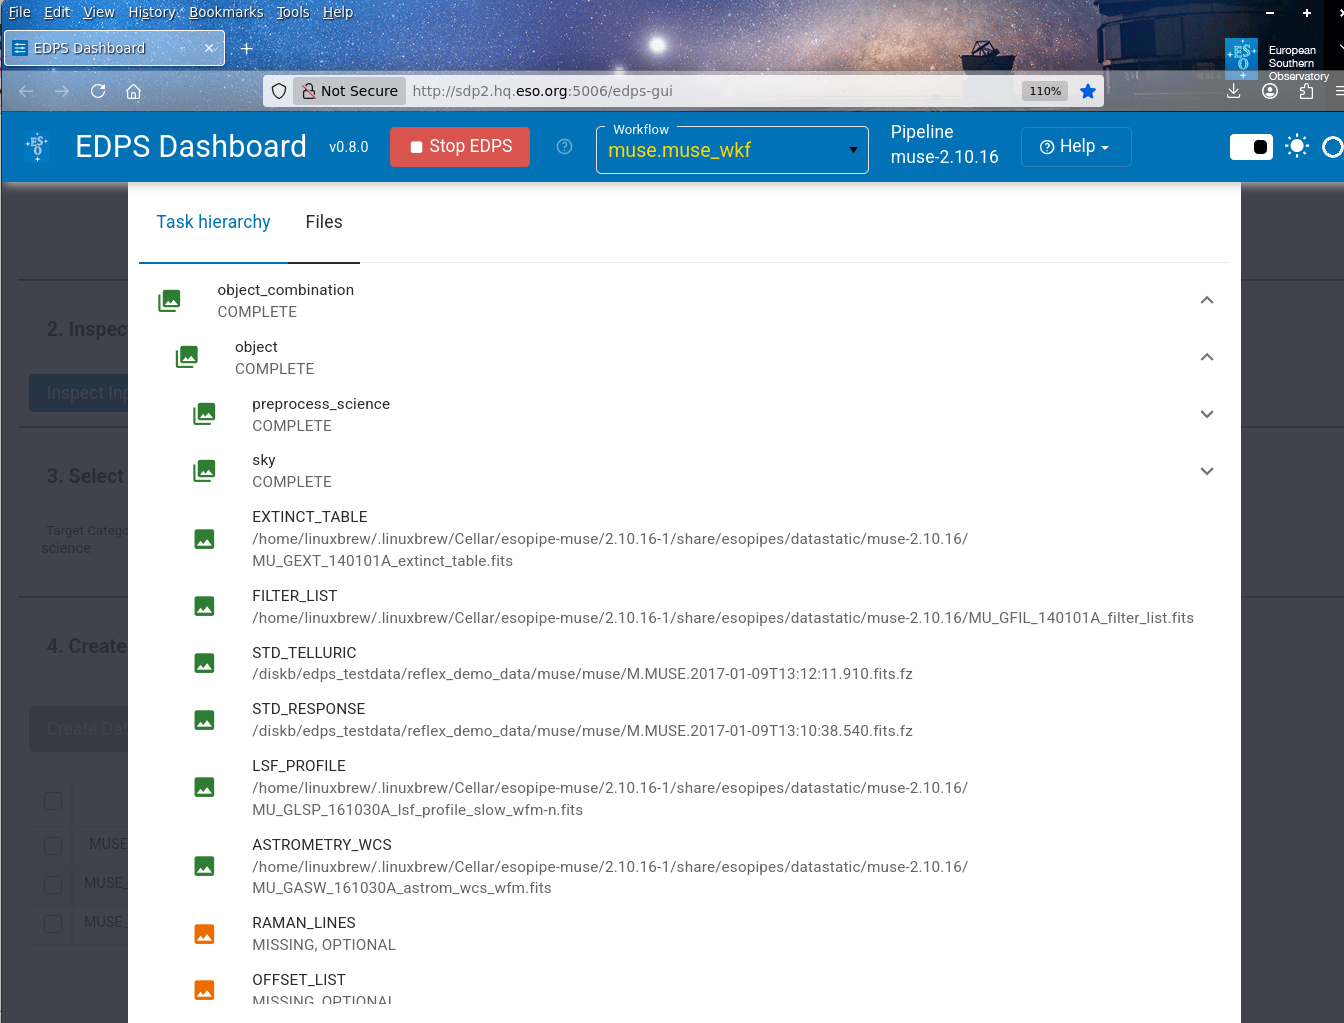
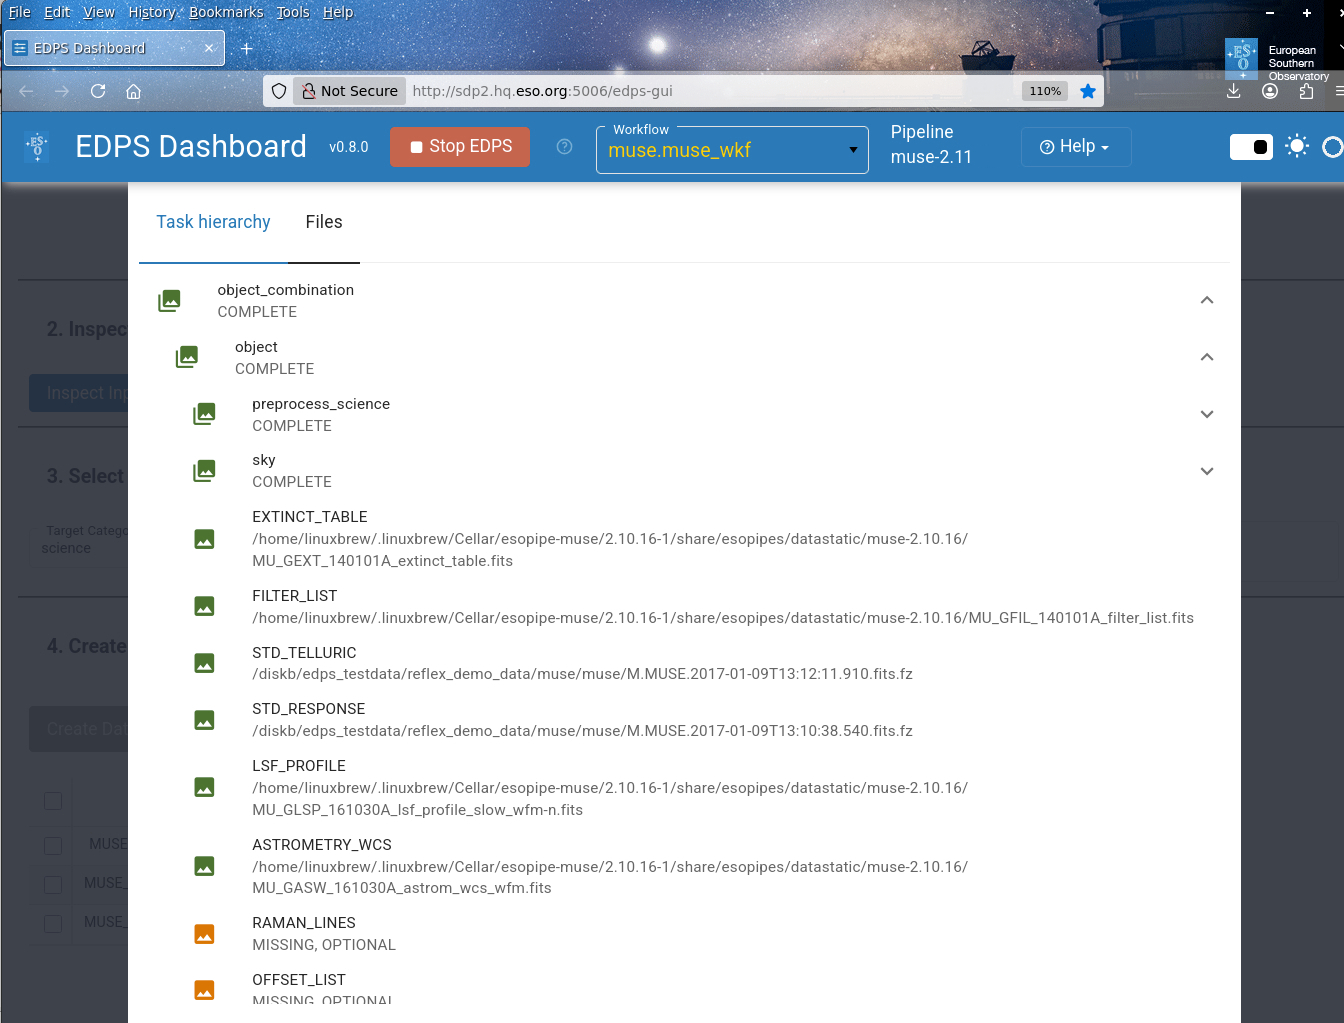
Start putting muse in line with 2.11 version

diff --git a/source/muse/task_list.md b/source/muse/task_list.md
@@ -5,33 +5,35 @@ by a workflow parameter). Other tasks are not used for scientific reduction (the
 for instrument monitoring and they can be executed only by specifying them as target. Note that, when a task is specified as target, all the 
 tasks that generate the calibrations needed for it are automatically executed.
 
-| TASK                            | 	RECIPE            | Used in  <br/>  science reduction | 	Notes                                                             |            
-|---------------------------------|---------------------|-------------------------------------|--------------------------------------------------------------------|
-| alignment	                      | muse_exp_align	  | yes	                                | Aligns a set of exposures for combination.                         |
-| alignment_sky	                  | muse_exp_align	  | no	                                 | Aligns a set of sky exposures for combination.                     |
-| astrometry	                     | muse_astrometry	  | no	                                 | Computes astrometry.                                               |
-| autocalibration_from_object_sky | none		          | no	                                 | Selects sky expousres for additional slice-to-slice flat fielding. |
-| bias	                           | muse_bias	          | yes	                                | Computes the masterbias.                                           |
-| dark			                         | muse_dark	     |optional| 	 Computes the master dark.                                        |
-| geometry		                      | muse_geometry    |optional| 	Generates geometry calibrations.			                               |
-| lamp_flat		                     | muse_flat	     |yes     | 	Computes master flat field.				                                   |
-| line_spread_function_arc        | muse_lsf	     |yes     | 	Computes LSF from arc exposures.			                               |
-| line_spread_function_lsf        | muse_lsf	     |optional| 	Computes LSF from dedicated calibrations.		                       |
-| linearity_and_gain	             | muse_lingain     |no      | 	Computes linearity and gain correction.			                        |
-| object			                       | muse_scipost     |yes     | 	Creates a datacube from individual scientific observations.       |
-| object_combination	             | muse_exp_combine |yes     | 	Creates a datacube from combined scientific observations.         |
-| object_sky		                    | muse_scipost     |no      | 	Processes sky exposures as they were science exposures.	          |
-| preprocess_astrometry	          | muse_scibasic    |optional| 	Reduces astrometric calibrations.			                              |
-| preprocess_science	             | muse_scibasic    |yes     | 	Reduces science exposures.				                                    |
-| preprocess_sky		                | muse_scibasic    |yes     | 	Reduces sky exposures.					                                       |
-| preprocess_sky_sci	             | muse_scibasic    |no      | 	Reduces sky exposures as they were science exposures.	            |
-| preprocess_standard	            | muse_scibasic    |yes     | 	Reduces standard star observations.			                            |
-| response		                      | muse_standard    |yes     | 	Computes the response function and atmospheric transmission.      |
-| sky			                          | muse_create_sky  |yes     | 	Computes the sky background from dedicated sky exposures.         |
-| sky_combination	                | muse_exp_combine |no      | 	Combines sky frames as they were science exposures.	              |
-| sky_flat		                      | muse_twilight    |optional| 	Processes skyflats for illumination correction.		                 |
-| throughput		                    | muse_ampl	     |no      | 	Computes the throughput.				                                      |
-| wavelength		                    | muse_wavecal     |yes     | 	Computes wavelength calibration.			                               |
+| TASK                            | 	RECIPE          | Used in  <br/>  science reduction | 	Notes                                                                         |            
+|---------------------------------|------------------|-----------------------------------|--------------------------------------------------------------------------------|
+| alignment	                      | muse_alignment	  | yes	                              | Aligns a set of exposures for combination using source list.                   |
+| alignment_sky	                  | muse_alignment	  | no	                               | Aligns a set of sky exposures for combination using source list.               |
+| astrometry	                     | muse_astrometry	 | no	                               | Computes astrometry.                                                           |
+| autocalibration_from_object_sky | none		           | no	                               | Selects sky expousres for additional slice-to-slice flat fielding.             |
+| bias	                           | muse_bias	       | yes	                              | Computes the masterbias.                                                       |
+| dark			                         | muse_dark	       | optional                          | 	 Computes the master dark.                                                    |
+| geometry		                      | muse_geometry    | optional                          | 	Generates geometry calibrations.			                                           |
+| lamp_flat		                     | muse_flat	       | yes                               | 	Computes master flat field.				                                               |
+| line_spread_function_arc        | muse_lsf	        | yes                               | 	Computes LSF from arc exposures.			                                           |
+| line_spread_function_lsf        | muse_lsf	        | optional                          | 	Computes LSF from dedicated calibrations.		                                   |
+| linearity_and_gain	             | muse_lingain     | no                                | 	Computes linearity and gain correction.			                                    |
+| object			                       | muse_scipost     | yes                               | 	Creates a datacube from individual scientific observations.                   |
+| object_combination	             | muse_exp_combine | yes                               | 	Creates a datacube from combined scientific observations.                     |
+| object_sky		                    | muse_scipost     | no                                | 	Processes sky exposures as they were science exposures.	                      |
+| preprocess_astrometry	          | muse_scibasic    | optional                          | 	Reduces astrometric calibrations.			                                          |
+| preprocess_science	             | muse_scibasic    | yes                               | 	Reduces science exposures.				                                                |
+| preprocess_sky		                | muse_scibasic    | yes                               | 	Reduces sky exposures.					                                                   |
+| preprocess_sky_sci	             | muse_scibasic    | no                                | 	Reduces sky exposures as they were science exposures.	                        |
+| preprocess_standard	            | muse_scibasic    | yes                               | 	Reduces standard star observations.			                                        |
+| response		                      | muse_standard    | yes                               | 	Computes the response function and atmospheric transmission.                  |
+| sky			                          | muse_create_sky  | yes                               | 	Computes the sky background from dedicated sky exposures.                     |
+| sky_combination	                | muse_exp_combine | no                                | 	Combines sky frames as they were science exposures.	                          |
+| sky_flat		                      | muse_twilight    | optional                          | 	Processes skyflats for illumination correction.		                             |
+| source_detection                | muse_detection   | yes                               | Detects sources in the datacube and creates a source catalog.		                |
+| source_detection_sky            | muse_detection   | no                                 | Detects sources in the datacube of sky exosure and creates a source catalog.		 |
+| throughput		                    | muse_ampl	       | no                                | 	Computes the throughput.				                                                  |
+| wavelength		                    | muse_wavecal     | yes                               | 	Computes wavelength calibration.			                                           |
 
 
 ---

diff --git a/source/muse/reduction_chain.md b/source/muse/reduction_chain.md
@@ -128,8 +128,10 @@ exposures. They are:
   requested. It is not directly associated to any recipe.
   See [here](../muse/configure_reduction.md#autocalibration).
 - **object**. This task runs the recipe muse_scipost to reduce a single scientific exposure.
-- **alignment**. This tasks runs the recipe muse_exp_align to correct for coordinate offsets the exposures that are meant
-  to be combined together (see [here](../muse/configure_reduction.md#combination).
+- **source_detection**. This task runs the recipe muse_detection to detect sources in the datacube of each individual 
+  exposure and create a source catalog. The source catalogs are used for the alignment of the exposures.
+- **alignment**. This tasks runs the recipe muse_alignment to correct for coordinate offsets the exposures that are meant
+  to be combined together (see [here](../muse/configure_reduction.md#combination). It uses sources detected in the previous step to compute the offsets.
 - **object_combination**. This tasks runs the recipe muse_exp_combine and combines individual exposures to produce the
   final datacube
 

diff --git a/source/muse/configure_reduction.md b/source/muse/configure_reduction.md
@@ -48,7 +48,8 @@ Go to [top](#configuration)
 
 A crucial aspect of the MUSE data reduction is the sky subtraction. The workflow supports several strategies, which
 are determined by the value of the workflow parameter **skysubtraction**.
-By default **skysubtraction** is set to **model**. In this configuration the MUSE workflow uses dedicated sky exposures (if available) to compute the SKY_CONTINUUM and the SKY_LINES
+By default **skysubtraction** is set to **model**. In this configuration the MUSE workflow uses dedicated sky 
+exposures (if available) to compute the SKY_CONTINUUM and the SKY_LINES
 calibrations. The SKY_CONTINUUM is the directly subtracted from the target field of view, whereas the intensities of the 
 sky emission lines are refitted (using a small portion of the target field of view) to compensate the time variation between
 scientific exposure and dedicated sky observations.

diff --git a/source/muse/reducing_demo.md b/source/muse/reducing_demo.md
@@ -30,7 +30,7 @@ The EDPS Dashboard (Graphic User Interface) with the MUSE workflow loaded.
 ```
 
 c. (Optional). Select the reduction target, configure the workflow parameter and specify the association preferences. 
-Thise steps are optional. For more information see [here](configure_dataset_.md).
+These steps are optional. For more information see [here](configure_dataset_.md).
 
 ```{include} ../common/reducing_demo_3.md
 ```

diff --git a/source/muse/index.rst b/source/muse/index.rst
@@ -19,4 +19,4 @@ MUSE tutorial
 
 ------------
 
-MUSE Version 2.10.16 - 20251210
+MUSE Version 2.11.00 - 20260410
